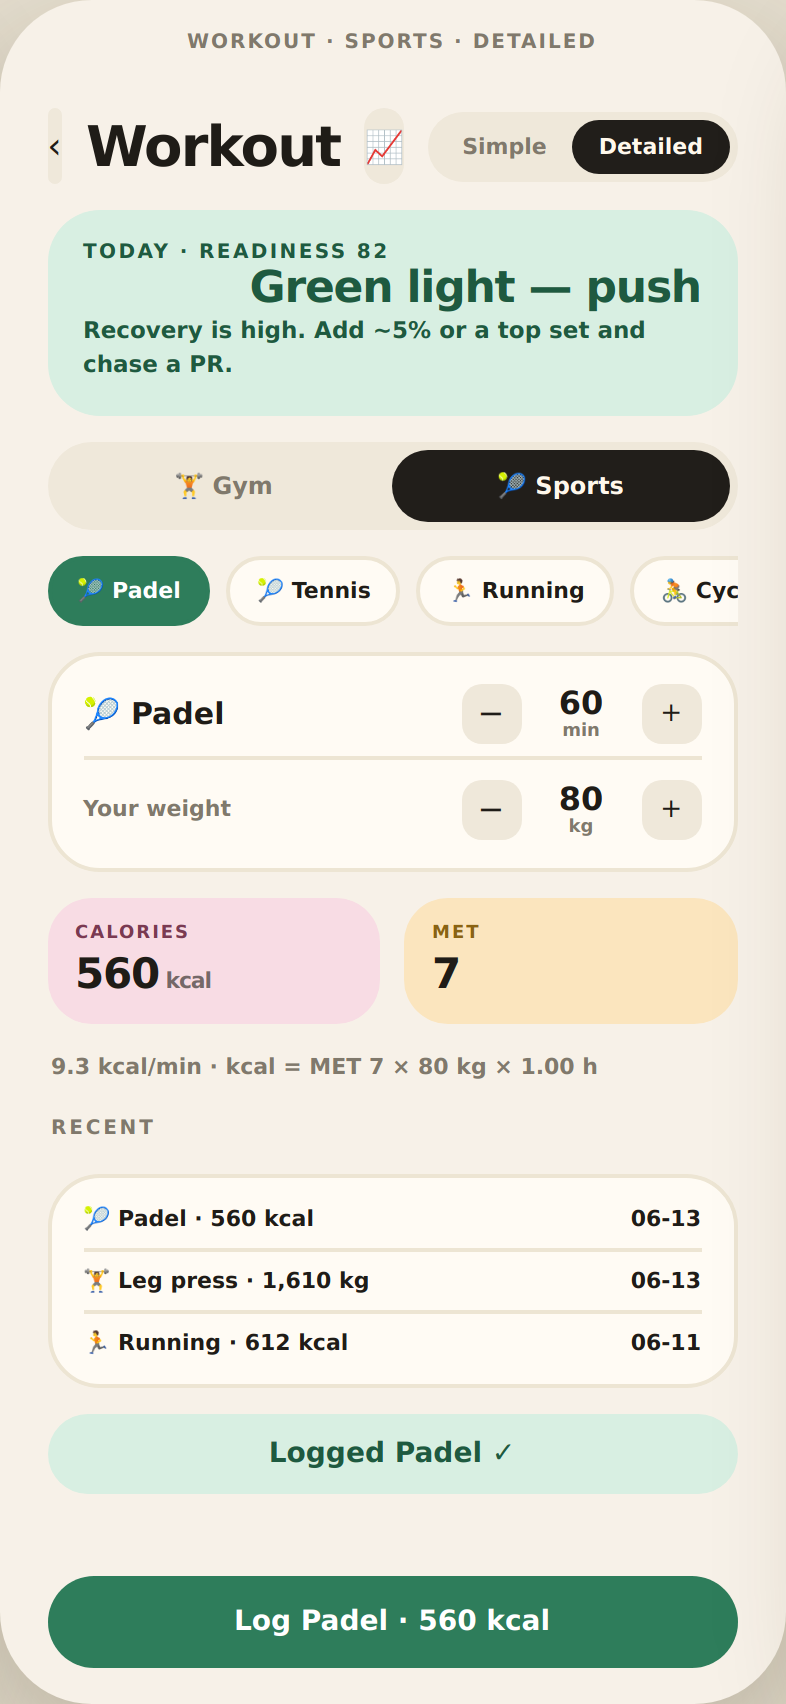
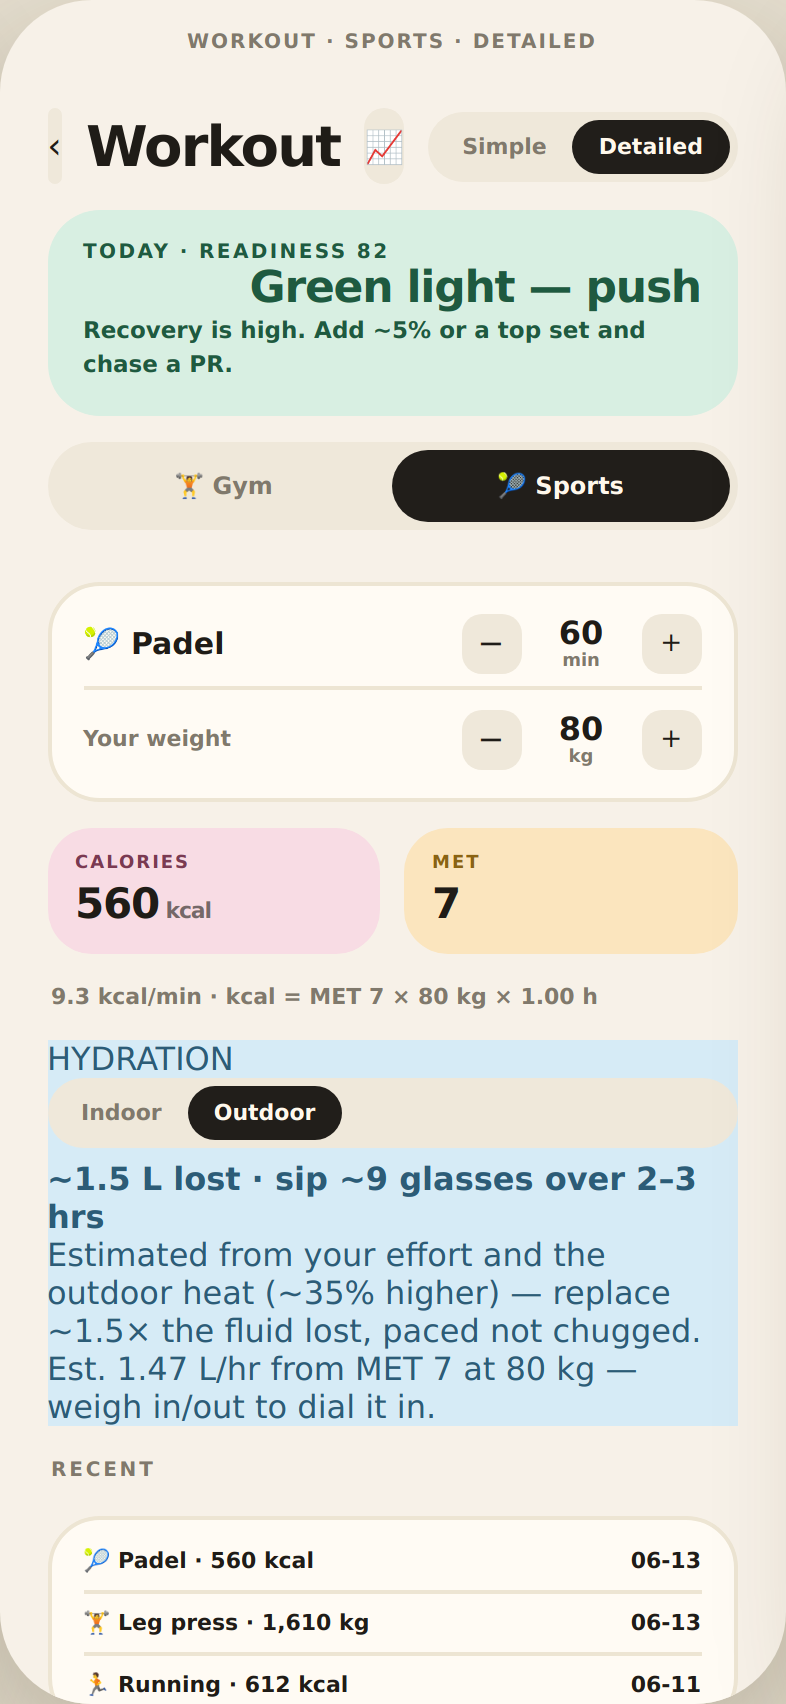
feat(workout): session sweat-loss & rehydration estimate (Gulf-heat aware)
Sports tab now estimates fluid lost and glasses to drink back, scaled by
effort (MET), bodyweight and heat — ACSM-grounded (~0.5 L/hr easy →
1.5–2 L/hr vigorous, +35% outdoors). Indoor/Outdoor toggle defaults to the
sport's setting (indoor-coded sports like swimming/HIIT/yoga don't assume
Gulf outdoor heat; padel/tennis/running do), overridable per session.

Headline surfaces the pacing ("sip ~N glasses over 2–3 hrs") and the
estimate framing so the glass count never reads as a chug-now demand;
Detailed shows the L/hr derivation with a weigh-in/out caveat.

Claude-Session: https://claude.ai/code/session_01MAEKquLMVqfVZ9tftgyL9e

diff --git a/app/src/data/workouts.ts b/app/src/data/workouts.ts
@@ -30,6 +30,7 @@ export type Sport = {
   met: number; // metabolic equivalent (moderate effort)
   emoji: string;
   gps?: boolean; // distance-based (running, cycling…)
+  indoor?: boolean; // typically played indoors/AC — don't assume Gulf outdoor heat
 };
 
 // --- 1RM estimators ---------------------------------------------------------
@@ -59,6 +60,26 @@ export function totalReps(sets: SetEntry[]): number {
 /** kcal = MET × weightKg × hours. */
 export function metCalories(met: number, minutes: number, weightKg = DEFAULT_WEIGHT_KG): number {
   return Math.round(met * weightKg * (minutes / 60));
+}
+
+/**
+ * Estimated sweat / fluid loss for a session (litres). Sweat rate scales with
+ * metabolic heat (MET) and body mass, and climbs sharply in Gulf outdoor heat —
+ * a flat number would badly under-serve a padel match at 42 °C. Grounded in ACSM
+ * ranges (~0.5 L/hr easy → ~1.5–2 L/hr vigorous; heat pushes higher). An estimate,
+ * not a substitute for weighing in/out.
+ */
+export function sweatLossLiters(met: number, minutes: number, weightKg = DEFAULT_WEIGHT_KG, hot = false): number {
+  const ratePerHr = Math.max(0.3, Math.min(2.5, 0.3 + (met - 3) * 0.18)) * (weightKg / 75) * (hot ? 1.35 : 1);
+  return Math.round(ratePerHr * (minutes / 60) * 10) / 10;
+}
+
+/**
+ * Fluid to drink to rehydrate after a session, in 250 ml glasses. ACSM guidance is
+ * to replace ~1.5× the fluid lost (urine losses during recovery), spread over hours.
+ */
+export function rehydrationGlasses(litersLost: number): number {
+  return Math.max(0, Math.round((litersLost * 1.5 * 1000) / 250));
 }
 /**
  * Running MET from pace (min/km), ACSM running equation:
@@ -241,15 +262,15 @@ export const SPORTS: Sport[] = [
   { key: 'running', name: 'Running', nameAr: 'جري', met: 9.8, emoji: '🏃', gps: true },
   { key: 'walking', name: 'Walking', nameAr: 'مشي', met: 3.5, emoji: '🚶', gps: true },
   { key: 'cycling', name: 'Cycling', nameAr: 'دراجة', met: 7.5, emoji: '🚴', gps: true },
-  { key: 'swimming', name: 'Swimming', nameAr: 'سباحة', met: 7.0, emoji: '🏊' },
+  { key: 'swimming', name: 'Swimming', nameAr: 'سباحة', met: 7.0, emoji: '🏊', indoor: true },
   { key: 'football', name: 'Football', nameAr: 'كرة قدم', met: 7.0, emoji: '⚽' },
-  { key: 'basketball', name: 'Basketball', nameAr: 'سلة', met: 6.5, emoji: '🏀' },
-  { key: 'hiit', name: 'HIIT', nameAr: 'هيت', met: 8.0, emoji: '🔥' },
-  { key: 'jumprope', name: 'Jump rope', nameAr: 'حبل', met: 11.0, emoji: '🪢' },
-  { key: 'squash', name: 'Squash', nameAr: 'إسكواش', met: 12.0, emoji: '🎾' },
-  { key: 'boxing', name: 'Boxing', nameAr: 'ملاكمة', met: 9.0, emoji: '🥊' },
-  { key: 'yoga', name: 'Yoga', nameAr: 'يوغا', met: 2.5, emoji: '🧘' },
-  { key: 'rowing', name: 'Rowing', nameAr: 'تجديف', met: 7.0, emoji: '🚣' },
+  { key: 'basketball', name: 'Basketball', nameAr: 'سلة', met: 6.5, emoji: '🏀', indoor: true },
+  { key: 'hiit', name: 'HIIT', nameAr: 'هيت', met: 8.0, emoji: '🔥', indoor: true },
+  { key: 'jumprope', name: 'Jump rope', nameAr: 'حبل', met: 11.0, emoji: '🪢', indoor: true },
+  { key: 'squash', name: 'Squash', nameAr: 'إسكواش', met: 12.0, emoji: '🎾', indoor: true },
+  { key: 'boxing', name: 'Boxing', nameAr: 'ملاكمة', met: 9.0, emoji: '🥊', indoor: true },
+  { key: 'yoga', name: 'Yoga', nameAr: 'يوغا', met: 2.5, emoji: '🧘', indoor: true },
+  { key: 'rowing', name: 'Rowing', nameAr: 'تجديف', met: 7.0, emoji: '🚣', indoor: true },
 ];
 
 export const MUSCLE_LABEL: Record<Muscle, string> = {

diff --git a/app/app/workout.tsx b/app/app/workout.tsx
@@ -19,6 +19,8 @@ import {
   distanceKm,
   e1rm,
   metCalories,
+  sweatLossLiters,
+  rehydrationGlasses,
   platesPerSide,
   restRecommendation,
   warmupRamp,
@@ -58,10 +60,13 @@ export default function Workout() {
   const [sportKey, setSportKey] = useState(SPORTS[0].key);
   const [minutes, setMinutes] = useState(45);
   const [pace, setPace] = useState(6); // min/km, for GPS sports
+  // Heat defaults to the sport's setting (indoor sports → off); null = follow that default until toggled.
+  const [heatOverride, setHeatOverride] = useState<boolean | null>(null);
   // Derive from the (async-loaded) body profile live; only snapshot once the user overrides.
   const [weightOverride, setWeightOverride] = useState<number | null>(null);
   const weight = weightOverride ?? body.weightKg;
   const sport = SPORTS.find((sp) => sp.key === sportKey) ?? SPORTS[0];
+  const outdoorHeat = heatOverride ?? !sport.indoor; // outdoor by default for the Gulf, except indoor-coded sports
 
   const r = computeReadiness(s);
   const advice = adjustForReadiness(r);
@@ -93,6 +98,8 @@ export default function Workout() {
   const sportMet = sport.key === 'running' ? runningMet(pace) : sport.met;
   const cals = metCalories(sportMet, minutes, weight);
   const dist = sport.gps ? distanceKm(minutes, pace) : 0;
+  const sweatL = sweatLossLiters(sportMet, minutes, weight, outdoorHeat);
+  const rehydrate = rehydrationGlasses(sweatL);
   // Only predict distances within ~0.4×–3× the logged distance (Riegel's reliable range).
   const raceTargets = [
     { km: 5, label: '5K' },
@@ -247,7 +254,7 @@ export default function Workout() {
             {SPORTS.map((sp) => {
               const on = sp.key === sportKey;
               return (
-                <Pressable key={sp.key} onPress={() => { setSportKey(sp.key); setSavedMsg(null); }} style={{ paddingVertical: 9, paddingHorizontal: 13, borderRadius: 99, backgroundColor: on ? colors.accent : colors.card, borderWidth: 2, borderColor: on ? colors.accent : colors.border }}>
+                <Pressable key={sp.key} onPress={() => { setSportKey(sp.key); setSavedMsg(null); setHeatOverride(null); }} style={{ paddingVertical: 9, paddingHorizontal: 13, borderRadius: 99, backgroundColor: on ? colors.accent : colors.card, borderWidth: 2, borderColor: on ? colors.accent : colors.border }}>
                   <AppText variant="caption" color={on ? '#fff' : colors.ink}>{sp.emoji} {sp.name}</AppText>
                 </Pressable>
               );
@@ -288,6 +295,29 @@ export default function Workout() {
               🏁 At this pace → {raceTargets.map((d) => `${d.label} ${fmtDur(riegelTime(minutes, dist, d.km))}`).join(' · ')}
             </AppText>
           )}
+
+          {/* Sweat / rehydration — Gulf-heat aware */}
+          <View style={{ backgroundColor: tiles.blue.bg, borderRadius: radii.xl, padding: spacing.lg }}>
+            <View style={{ flexDirection: 'row', justifyContent: 'space-between', alignItems: 'center' }}>
+              <AppText variant="caption" color={tiles.blue.ink} style={{ letterSpacing: 1.2 }}>HYDRATION</AppText>
+              <Pressable onPress={() => setHeatOverride(!outdoorHeat)} style={{ flexDirection: 'row', backgroundColor: colors.navBg, borderRadius: 99, padding: 3 }}>
+                {(['Indoor', 'Outdoor'] as const).map((t, i) => {
+                  const on = outdoorHeat === (i === 1);
+                  return (
+                    <View key={t} style={{ paddingVertical: 5, paddingHorizontal: 11, borderRadius: 99, backgroundColor: on ? colors.navOn : 'transparent' }}>
+                      <AppText variant="caption" color={on ? colors.navOnText : colors.textMuted} style={{ fontSize: 10 }}>{t}</AppText>
+                    </View>
+                  );
+                })}
+              </Pressable>
+            </View>
+            <AppText variant="title" color={tiles.blue.ink} style={{ marginTop: 6 }}>
+              ~{sweatL} L lost · sip ~{rehydrate} glasses over 2–3 hrs
+            </AppText>
+            <AppText variant="caption" color={tiles.blue.ink} style={{ marginTop: 4, opacity: 0.85, lineHeight: 16 }}>
+              Estimated from your effort{outdoorHeat ? ' and the outdoor heat (~35% higher)' : ''} — replace ~1.5× the fluid lost, paced not chugged.{detailed ? ` Est. ${Math.round((sweatL / (minutes / 60)) * 100) / 100} L/hr from MET ${Math.round(sportMet * 10) / 10} at ${weight} kg — weigh in/out to dial it in.` : ''}
+            </AppText>
+          </View>
         </>
       )}
 

diff --git a/mockups/redesign/expressive/prototype-v3/workout-screens.html b/mockups/redesign/expressive/prototype-v3/workout-screens.html
@@ -89,6 +89,11 @@ svg{display:block;width:100%}
   <div class="row" style="justify-content:space-between;border-top:2px solid var(--bord);padding-top:10px;margin-top:6px"><div class="muted">Your weight</div><div class="step"><div class="b">−</div><div class="v"><b>80</b><span>kg</span></div><div class="b">＋</div></div></div></div>
  <div class="stats"><div class="stat" style="background:var(--pink)"><div class="l" style="color:var(--pinkT)">CALORIES</div><div class="v">560<small> kcal</small></div></div><div class="stat" style="background:var(--gold)"><div class="l" style="color:var(--goldT)">MET</div><div class="v">7</div></div></div>
  <div class="muted" style="margin:2px">9.3 kcal/min · kcal = MET 7 × 80 kg × 1.00 h</div>
+ <div class="tile" style="background:var(--blue)">
+  <div class="top"><div class="t" style="color:var(--blueT)">HYDRATION</div><div class="seg"><b>Indoor</b><b class="on">Outdoor</b></div></div>
+  <div style="font-size:16px;font-weight:800;color:var(--blueT);margin-top:6px">~1.5 L lost · sip ~9 glasses over 2–3 hrs</div>
+  <div class="note" style="color:var(--blueT)">Estimated from your effort and the outdoor heat (~35% higher) — replace ~1.5× the fluid lost, paced not chugged. Est. 1.47 L/hr from MET 7 at 80 kg — weigh in/out to dial it in.</div>
+ </div>
  <div class="lbl">RECENT</div>
  <div class="card" style="padding:6px 16px"><div class="pr"><span>🎾 Padel · 560 kcal</span><span>06-13</span></div><div class="pr"><span>🏋️ Leg press · 1,610 kg</span><span>06-13</span></div><div class="pr"><span>🏃 Running · 612 kcal</span><span>06-11</span></div></div>
  <div class="saved">Logged Padel ✓</div>